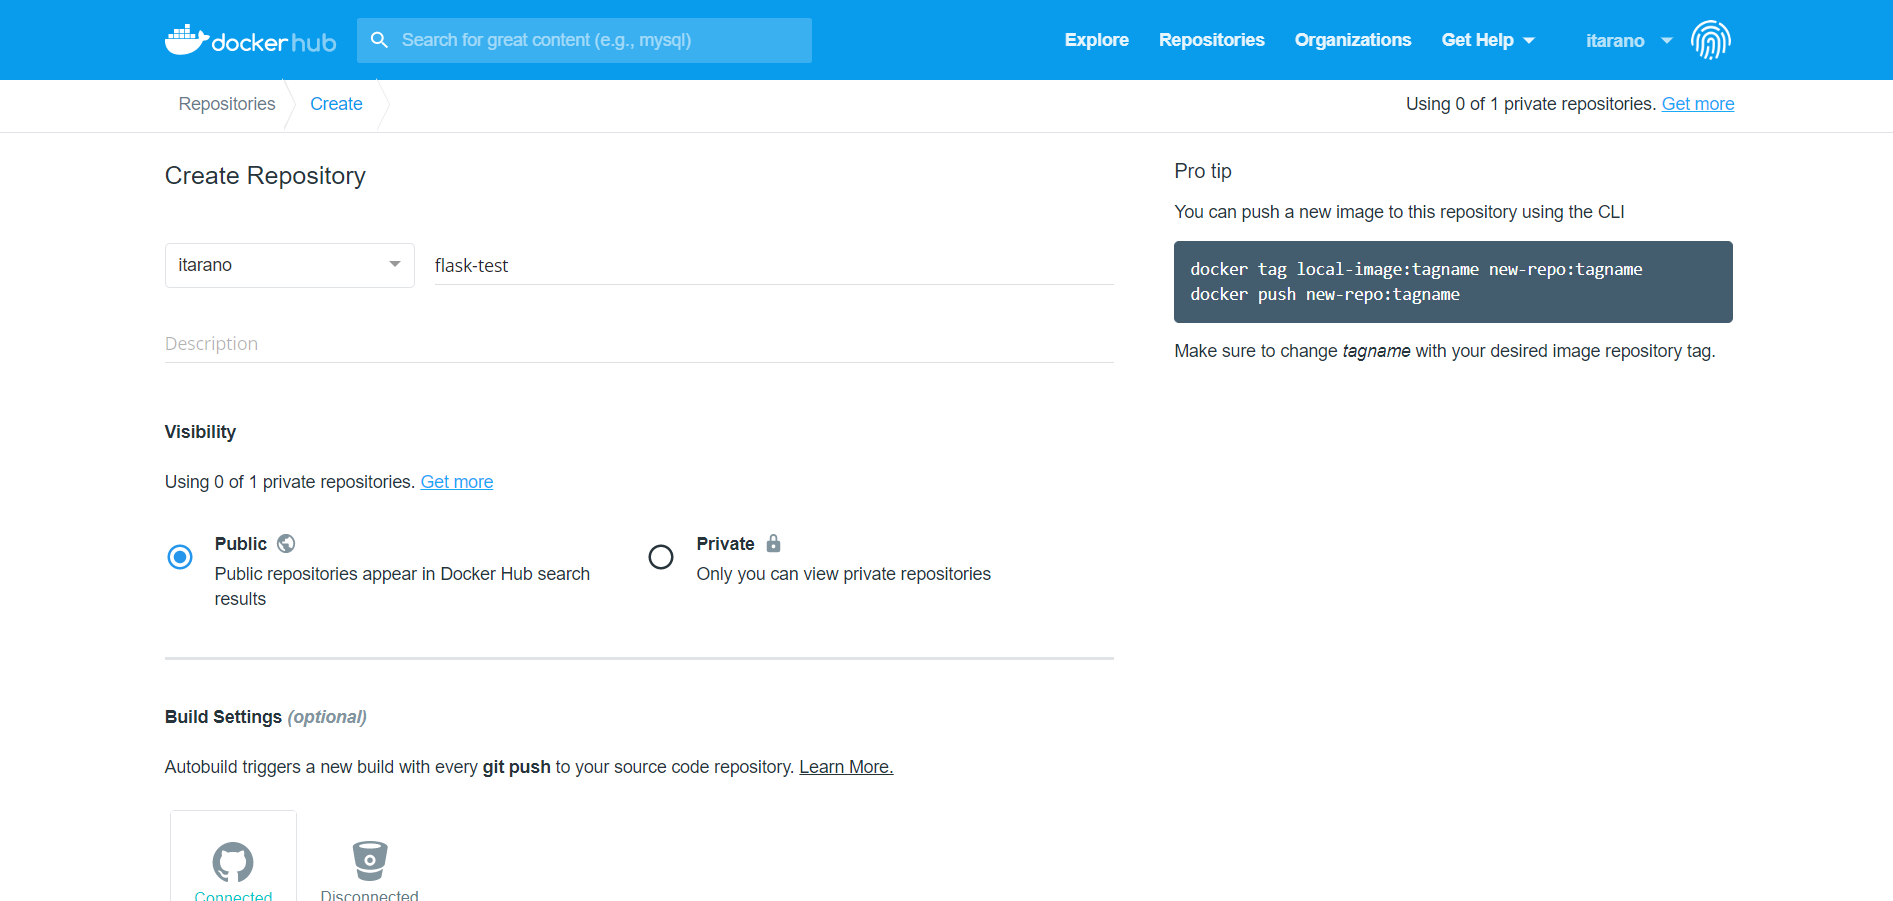
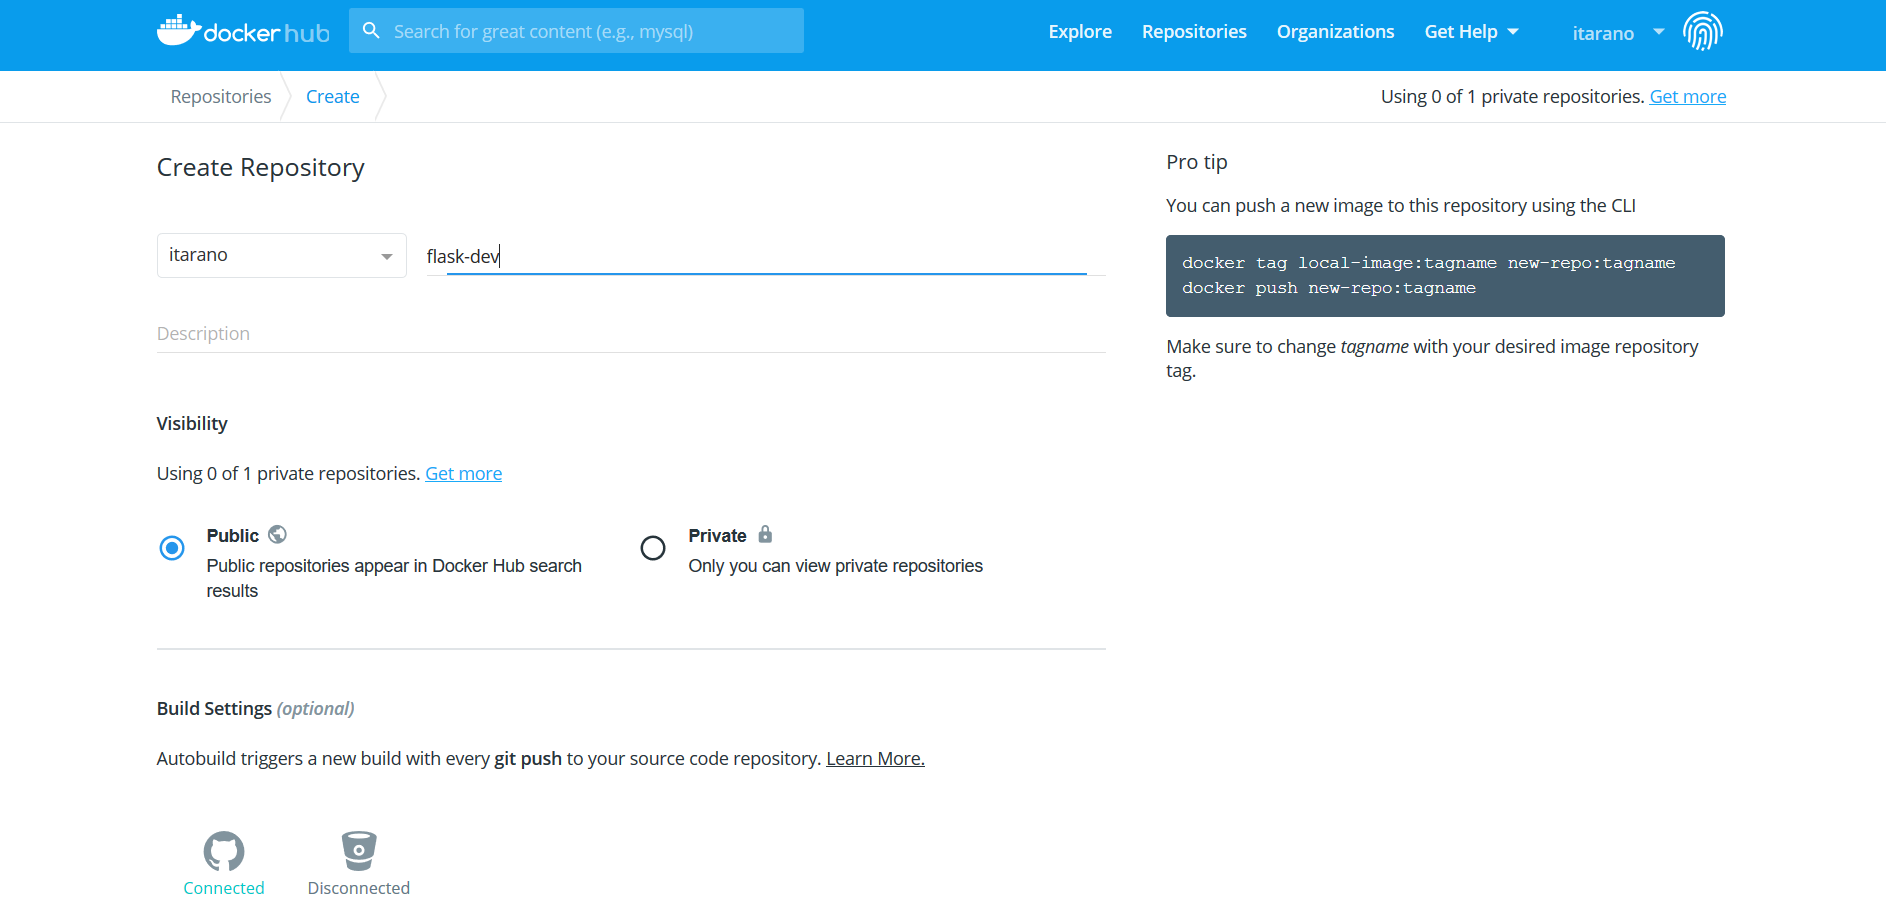
update README and assets

diff --git a/README.md b/README.md
@@ -1,9 +1,7 @@
 # Local environment
 
-1. Docker (Docker for Windows for example)
-2. Windows
-
-PS: Within linux, it is easy to transform *.bat* scripts into *.sh* scripts because they are self-explained.
+1. Docker and Docker Compose (for example, Docker for Windows)
+2. GitHub and DockerHub (CI/CD)
 
 # Use
 
@@ -12,16 +10,20 @@ Up and running dev environment:
 
 # Integration with Docker Hub
 
-In order to deploy flask app container to test and shared the application, we can push an image to docker hub (*Dockerfile*) automatically when commit occurs.
+In order to deploy flask app container to test and shared the application (or deploy it in production), we can push an image to docker hub **automatically** when commit occurs (continuous integration). Moreover, it is also posible to run test before push to DockerHub automatically with *docker-compose.test.yml* file. 
 
-We have to create a Docker Hub repository (for example with the same name like PROJECT_NAME variable in *.env* file) and configure it as shown below:
+&rarr; [docker blog](!https://www.docker.com/blog/how-to-build-and-test-your-docker-images-in-the-cloud-with-docker-hub/) &larr;
+
+We have to create a Docker Hub repository (for example, *flask-dev*) and configure it as shown below:
 
 ![Docker Hub Configuration](/assets/dockerhub1.png)
 
 ![Docker Hub Configuration](/assets/dockerhub2.png)
 
-It's also possible to configure rules to generate different versions of the application (add different **build rules**).
+We have configurated two rules:
+1. Push image always when commit occurs with *latest* tag
+2. Push release image (release-x.x.x) when a new release is generated in the github repo with tag x.x.x
 
-# Run docker hub container
+# Test or deploy DockerHub image
 
-docker run -d -p 5000:5000 itarano/flask-test:latest
+docker run -d -p 5000:5000 itarano/flask-dev:release-1.0.0
